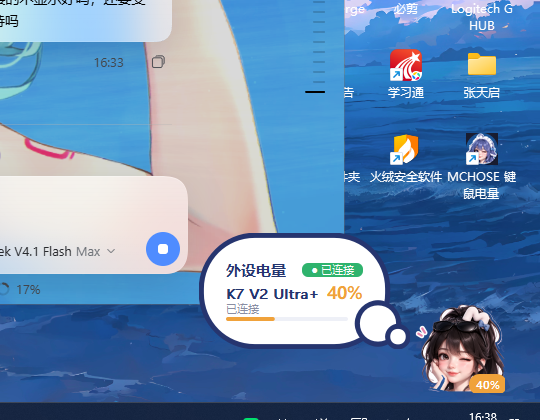
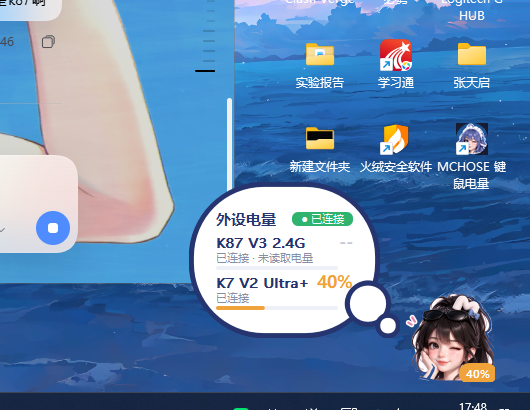
Show connected 2.4G keyboards without HUB battery

diff --git a/battery.py b/battery.py
@@ -3,6 +3,8 @@ from __future__ import annotations
 
 import os
 import re
+import subprocess
+import time
 
 try:
     import ble_battery
@@ -49,6 +51,54 @@ class Descriptor:
     product_name: str
     battery: int | None
     connect_mode: int | None
+
+
+_USB_CACHE: dict[tuple[int, int], tuple[float, bool]] = {}
+_USB_CACHE_TTL = 20.0
+
+
+def _usb_ids(key: str) -> tuple[int, int] | None:
+    """Extract the decimal VID/PID encoded in a HUB product key."""
+    match = re.search(r"\$\$\$(\d+)\$\$\$(\d+)", str(key or ""))
+    if not match:
+        return None
+    return int(match.group(1)), int(match.group(2))
+
+
+def _usb_present(vid: int, pid: int) -> bool:
+    """Check whether the USB receiver/device is currently present in Windows.
+
+    Some 2.4G keyboards (for example the K87 V3 2.4G) have a HUB descriptor
+    but no ``connectStatus`` record until HUB refreshes its battery cache.
+    Their USB receiver is still visible to Windows, so use that as a safe
+    fallback instead of showing every stale keyboard descriptor forever.
+    """
+    now = time.monotonic()
+    cached = _USB_CACHE.get((vid, pid))
+    if cached and now - cached[0] < _USB_CACHE_TTL:
+        return cached[1]
+    present = False
+    if os.name == "nt":
+        query = (
+            "@(Get-PnpDevice -PresentOnly -ErrorAction SilentlyContinue | "
+            f"Where-Object {{ $_.InstanceId -match 'VID_{vid:04X}&PID_{pid:04X}' }}).Count"
+        )
+        try:
+            creationflags = getattr(subprocess, "CREATE_NO_WINDOW", 0)
+            result = subprocess.run(
+                ["powershell", "-NoProfile", "-NonInteractive", "-Command", query],
+                capture_output=True,
+                text=True,
+                encoding="utf-8",
+                errors="ignore",
+                timeout=4,
+                creationflags=creationflags,
+            )
+            present = result.stdout.strip() not in ("", "0")
+        except (OSError, subprocess.SubprocessError):
+            present = False
+    _USB_CACHE[(vid, pid)] = (now, present)
+    return present
 
 
 def product_name(value: str | None) -> str:
@@ -243,14 +293,18 @@ def collect_mchose_devices(records: dict[str, dict[str, Any]], descriptors: list
         battery_value = record.get("battery") if record else None
         if battery_value is None and kind not in ("keyboard", "mouse"):
             continue
+        # A 2.4G keyboard may be present in Windows while HUB has only a
+        # descriptor and no connectStatus/battery record yet.  Show it as
+        # connected but without a percentage, rather than hiding it.
+        if descriptor is not None and battery_value is None and kind == "keyboard":
+            ids = _usb_ids(descriptor.key)
+            if ids and _usb_present(*ids):
+                record = dict(record or descriptor_record(descriptor) or {})
+                record["connectStatus"] = 2
+                record["_status"] = "已连接 · 未读取电量"
+                record["_note"] = "MCHOSE HUB 暂未上报这把键盘的电量；2.4G 接收器已连接。"
         devices.append(build_device(kind, display_name, record))
 
-    # A keyboard can expose both G87 and K87 aliases for the same hardware.
-    # If one alias has a battery reading, hide the empty alias of the same type.
-    for kind in ("keyboard", "mouse"):
-        typed = [d for d in devices if d.type == kind]
-        if any(d.battery is not None for d in typed):
-            devices = [d for d in devices if d.type != kind or d.battery is not None]
     return devices
 
 
@@ -279,9 +333,10 @@ def build_device(kind: str, key: str | None, record: dict[str, Any] | None) -> D
             status = "已连接"
     elif key:
         status = "不显示电量" if kind == "keyboard" else "未检测到电量"
-    note = ""
-    if kind == "keyboard" and battery is None:
+    note = (record or {}).get("_note", "")
+    if not note and kind == "keyboard" and battery is None:
         note = "有线键盘没有电池，不显示电量属正常；无线键盘请确认 MCHOSE HUB 已读取。"
+    status = (record or {}).get("_status") or status
     return Device(kind, name, battery, charging, connected, status, note)
 
 

diff --git a/installer_build/Installer.cs b/installer_build/Installer.cs
@@ -13,8 +13,8 @@ using Microsoft.Win32;
 [assembly: AssemblyDescription("桌面外设电量安装程序")]
 [assembly: AssemblyProduct("桌面外设电量")]
 [assembly: AssemblyCompany("Desktop Battery Widget")]
-[assembly: AssemblyVersion("1.6.1.0")]
-[assembly: AssemblyFileVersion("1.6.1.0")]
+[assembly: AssemblyVersion("1.6.2.0")]
+[assembly: AssemblyFileVersion("1.6.2.0")]
 
 namespace MchoseSetup
 {
@@ -276,7 +276,7 @@ namespace MchoseSetup
             head.Controls.Add(title);
 
             Label sub = new Label();
-            sub.Text = "v1.6.1  ·  桌面外设电量挂件";
+            sub.Text = "v1.6.2  ·  桌面外设电量挂件";
             sub.ForeColor = Color.FromArgb(210, 218, 240);
             sub.Font = new Font("Microsoft YaHei UI", 9F);
             sub.AutoSize = true;

diff --git a/app.py b/app.py
@@ -884,7 +884,7 @@ class SettingsPopup(QWidget):
             actions.addWidget(button)
         layout.addLayout(actions)
 
-        footer = QLabel("桌面外设电量  ·  v1.6.1")
+        footer = QLabel("桌面外设电量  ·  v1.6.2")
         footer.setAlignment(Qt.AlignCenter)
         footer.setFont(font(4.0, QFont.Normal, 1.0, 6))
         footer.setStyleSheet("color:#B4B8C7;")

diff --git a/installer_build/build_installer.py b/installer_build/build_installer.py
@@ -16,7 +16,7 @@ DIST = ROOT / "dist" / "MCHOSEBatteryWidget"
 PAYLOAD = ROOT / "installer_build" / "payload.zip"
 INSTALLER_CS = ROOT / "installer_build" / "Installer.cs"
 RELEASE = ROOT / "release"
-OUTPUT = RELEASE / "桌面外设电量_安装程序_v1.6.1.exe"
+OUTPUT = RELEASE / "桌面外设电量_安装程序_v1.6.2.exe"
 USAGE = ROOT / "使用说明.txt"
 
 

diff --git a/README.md b/README.md
@@ -10,6 +10,7 @@
 - 左键单击头像展开 / 收起云朵电量气泡；悬停不展开
 - 自动列出 HUB 内全部**当前已连接**且带电量设备（不限 MCHOSE 型号）+ 标准 BLE Battery Service 设备
 - 未连接/已断开的设备不会显示
+- 2.4G 接收器已连接但 HUB 暂未上报电量的键盘会显示“已连接 · 未读取电量”
 - 右键头像打开圆角设置卡片：大小 50%–300%、开机启动、隐藏、刷新、退出
 - 按住头像拖动到桌面任意位置，位置自动保存
 - 拖到屏幕边缘（14px 内）松手，自动收进屏幕，只留一个边缘标签；点击标签滑出
@@ -53,7 +54,7 @@ python installer_build/build_installer.py
 
 1. 把 `dist/MCHOSEBatteryWidget/` 压缩成 `installer_build/payload.zip`
 2. 用 .NET Framework 的 `csc.exe` 编译 `installer_build/Installer.cs`
-3. 输出 `release/桌面外设电量_安装程序_v1.6.1.exe`
+3. 输出 `release/桌面外设电量_安装程序_v1.6.2.exe`
 
 安装器支持自选安装位置，默认安装到：
 
